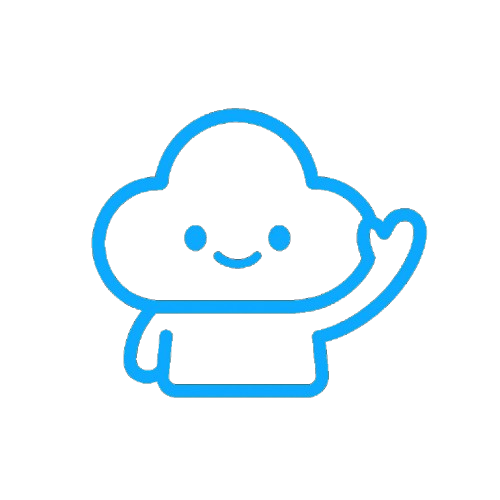
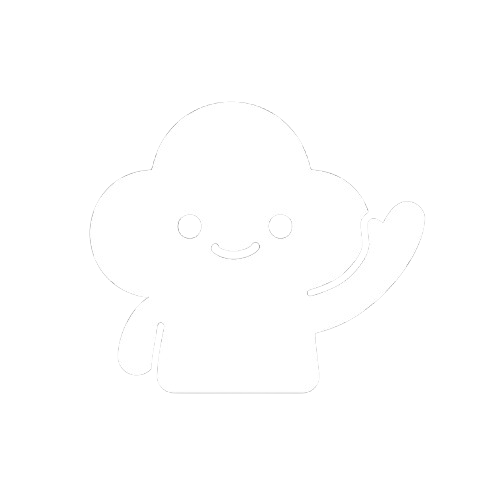
mudança de layout de novo

Changed region(s): [[0.18, 0.21, 0.87, 0.81], [0.36, 0.45, 0.6, 0.54]]

diff --git a/src/paginas/Home.jsx b/src/paginas/Home.jsx
@@ -1,47 +1,53 @@
+import { useEffect, useState } from "react";
 import ChatWidget from "../componentes/BolinhaChat";
 import MapComponent from "../componentes/Mapa";
+import WeatherCard from "../componentes/Tempeture";
+import Nubi from "../img/Nubi.png";
+import NubiBranco from "../img/Nubi_Branco.png";
 
 export default function Home() {
-  // const [darkMode, setDarkMode] = useState(false)
-  // useEffect(() => {
-  //   var theme = localStorage.getItem("theme")
-  //   theme == "dark" ? setDarkMode(true) : setDarkMode(false)
-  // }, []);
+  const [darkMode, setDarkMode] = useState(false);
+  const [position, setPosition] = useState(null);
+
+  useEffect(() => {
+    const theme = localStorage.getItem("theme");
+    const lat = localStorage.getItem("lat");
+    const lng = localStorage.getItem("lng");
+
+    setDarkMode(theme === "dark");
+
+    if (lat && lng) {
+      setPosition({ lat: parseFloat(lat), lng: parseFloat(lng) });
+    }
+  }, []);
+
   return (
     <>
-      <div className="w-full flex justify-center h-full bg-white dark:bg-gradient-to-br 
-            dark:from-[#132235] dark:via-[#1a2f46] dark:to-[#233b56] 
-            py-20 transition-all duration-500">
-        {/* <div
-          className="w-full h-[400px] bg-gradient-to-br 
-            from-blue-100 to-indigo-200 
-            dark:from-[#132235] dark:via-[#1a2f46] dark:to-[#233b56] 
-            py-20 relative transition-all duration-500"
-        ></div> */}
+      <div
+        className="w-full flex flex-col items-center h-full bg-white dark:bg-gradient-to-br 
+          dark:from-[#132235] dark:via-[#1a2f46] dark:to-[#233b56] transition-all duration-500 grid-rows-2 gap-6"
+      >
+        <div className="grid-row-3 gap-3 flex justify-center h-[400px] bg-[#5e90bbab] dark:bg-[#22415A] w-full">
+          <div className="h-full flex flex-col xl:flex-row items-center justify-center w-[90%] sm:w-[70%] md:w-[60%] xl:w-[50%] grid-rows-2 gap-5">
+            <div className="flex items-center">
+              <img className="h-[120px] w-[120px] xl:h-[250px] xl:w-[250px]" src={Nubi} />
+              <div className="text-blue-950 dark:text-amber-50 lg:w-[50%]">
+                <p className="text-2xl xl:text-3xl font-semibold">Oi, eu sou o Nubi!</p>
+                <p className="text-lg xl:text-lg">Veja aqui os alertas e áreas de risco da sua cidade.</p>
+              </div>
+            </div>
+            <div className="h-[200px] w-full xl:w-1/3">
+              {position && <WeatherCard Lat={position.lat} Long={position.lng} />}
+            </div>
+          </div>
 
-        <div className="w-[90%] md:w-[80%] lg:w-[70%] xl:w-[50%]  backdrop-blur-md bg-[#259add] dark:bg-[#0e1e2e]/70 rounded-2xl shadow-xl p-6 mb-12 transition-colors duration-500">
+        </div>
+
+        <div className="w-[90%] md:w-[60%] xl:w-[50%] backdrop-blur-md bg-[#259add] dark:bg-[#0e1e2e]/70 rounded-2xl shadow-xl p-6 mb-12 transition-colors duration-500">
           <MapComponent />
         </div>
 
         <ChatWidget />
-
-        <style>{`
-          :root {
-            --grad-start: rgba(235,245,255,1);
-            --grad-mid: rgba(210,230,245,.95);
-            --grad-end: rgba(190,215,230,.9);
-            --grad-highlight: rgba(120,180,255,.3);
-            --grad-accent: rgba(160,210,255,.2);
-          }
-
-          .dark {
-            --grad-start: rgba(8,15,25,1);
-            --grad-mid: rgba(10,25,40,1);
-            --grad-end: rgba(6,15,25,1);
-            --grad-highlight: rgba(40,90,180,.25);
-            --grad-accent: rgba(100,150,220,.15);
-          }
-        `}</style>
       </div>
     </>
   );

diff --git a/src/componentes/Mapa.jsx b/src/componentes/Mapa.jsx
@@ -3,10 +3,6 @@ import { MapContainer, TileLayer, Marker, Popup, useMapEvents } from "react-leaf
 import L from "leaflet";
 import "leaflet/dist/leaflet.css";
 import ConfirmPopup from "./Popup";
-import WeatherCard from "./Tempeture";
-import Nubi from "../img/Nubi.png";
-import NubiBranco from "../img/Nubi_Branco.png";
-import Chat from "./Chat";
 
 delete L.Icon.Default.prototype._getIconUrl;
 L.Icon.Default.mergeOptions({
@@ -141,22 +137,7 @@ export default function Mapa() {
   return (
     <div className="flex flex-col gap-y-6 w-full h-auto">
       {/* Card do clima */}
-      <div className="flex flex-col xl:flex-row items-center space-x-6 grid-row-3 gap-3">
-        <div className="flex items-center">
-          {darkMode == true ? (
-            <img className="h-[120px] w-[120px] xl:h-[250px] xl:w-[250px]" src={Nubi} />
-          ): (
-            <img className="h-[120px] w-[120px] xl:h-[250px] xl:w-[250px]" src={NubiBranco} />
-          )}
-          <div className="text-amber-50">
-            <p className="text-2xl xl:text-3xl font-semibold">Oi, eu sou o Nubi!</p>
-            <p className="text-xl xl:text-xl">Veja aqui os alertas e áreas de risco da sua cidade.</p>
-          </div>
-        </div>
-        <div className="h-[200px] w-full xl:w-1/3">
-          {position && <WeatherCard Lat={position.lat} Long={position.lng} />}
-        </div>
-      </div>
+      
 
       {/* Mapa e eventos */}
       <div className="flex flex-col lg:flex-row w-full gap-y-6">

diff --git a/src/componentes/Nav.jsx b/src/componentes/Nav.jsx
@@ -10,13 +10,14 @@ const navigation = [
   { name: 'Home', to: '/' },
   { name: 'Guia de Segurança', to: '/guiaSeguranca' },
   { name: 'Contato', to: '/contato' },
+  { name: 'EducaCidade', to: '/educa' },
 ]
 
 export default function Nav() {
   const [mobileMenuOpen, setMobileMenuOpen] = useState(false)
 
   return (
-    <div className="bg-[#259add] dark:bg-gray-900 transition-colors duration-300">
+    <div className="bg-[#1890d6] dark:bg-gray-900 transition-colors duration-300">
       <header className="shadow-sm">
         <nav
           aria-label="Global"
@@ -25,9 +26,9 @@ export default function Nav() {
           <div className="flex lg:flex-1">
             <Link to="/" className="-m-1.5 p-1.5 flex items-center gap-3">
               <span className="sr-only">Risk Map</span>
-              <img alt="logo" src={logoDark} className="w-20 lg:w-16 dark:hidden" />
-              <img alt="logo" src={logo} className="w-20 lg:w-16 hidden dark:block" />
-              <span className="text-xl font-bold text-gray-800 dark:text-white">
+              {/* <img alt="logo" src={logoDark} className="w-20 lg:w-16 dark:hidden" /> */}
+              <img alt="logo" src={logo} className="w-20 lg:w-16 block" />
+              <span className="text-xl font-bold text-white">
                 Risk Mapping
               </span>
             </Link>

diff --git a/src/paginas/EducaCidade.jsx b/src/paginas/EducaCidade.jsx
@@ -1,0 +1,22 @@
+// src/pages/EducaCidade.jsx
+export default function EducaCidade() {
+    return (
+        <div className="w-full h-[100vh] flex flex-col items-center grid-rows-2 gap-6">
+            <div className="w-full bg-green-400flex items-center justify-center max-w-3xl aspect-video rounded-xl overflow-hidden shadow-lg">
+                <iframe
+                    width="100%"
+                    height="100%"
+                    src="https://www.youtube.com/embed/aIR6khgsc3A"
+                    title="Entenda os riscos das enchentes"
+                    frameBorder="0"
+                    allow="accelerometer; autoplay; clipboard-write; encrypted-media; gyroscope; picture-in-picture"
+                    allowFullScreen
+                ></iframe>
+            </div>
+            <div>
+                <p>test</p>
+            </div>
+
+        </div>
+    );
+}

diff --git a/src/componentes/Footer.jsx b/src/componentes/Footer.jsx
@@ -3,10 +3,7 @@ import { Headset, Phone, Instagram, Facebook } from 'lucide-react'
 export default function Footer() {
     return (
         <footer 
-            className="py-6 text-sm transition-all duration-500 bg-gradient-to-br from-blue-100 to-indigo-200 
-                        dark:from-[#0b1724] dark:to-[#142435] 
-                        dark:border-blue-800 
-                        text-[#0d1b2a] dark:text-gray-300"
+            className="py-6 text-sm transition-all duration-500 bg-[#259add] dark:bg-gray-900"
             >
 
             <div className="max-w-5xl mx-auto flex flex-col md:flex-row justify-between gap-6 text-center md:text-left">

diff --git a/src/App.jsx b/src/App.jsx
@@ -4,6 +4,7 @@ import Sobre from './paginas/Sobre'
 import Contato from './paginas/Contato'
 import Layout from './paginas/Layout';
 import GuiaAlagamento from './paginas/GuiaSegurança';
+import EducaCidade from './paginas/EducaCidade';
 
 function App() {
   return (
@@ -13,6 +14,7 @@ function App() {
         <Route path="/guiaSeguranca" element={<GuiaAlagamento />} />
         <Route path="/contato" element={<Contato />} />
         <Route path="/sobre" element={<Sobre />} />
+        <Route path="/educa" element={<EducaCidade />} />
       </Route>
     </Routes>
   );
